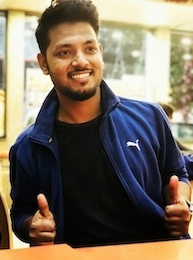
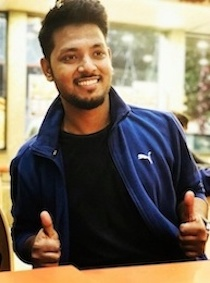
Added images of new members; Publications

diff --git a/index.html b/index.html
@@ -105,8 +105,9 @@ crossorigin="anonymous"></script>
         <div class="card-body">
          <h5 class="card-title border-bottom pb-3">Dr. Tavpritesh Sethi</h5>
          <p class="card-text">Principal Investigator</p>
-         <p>Lorem Ipsum dolor sit amet, consectetur adipiscing elit. Duis condimentum lacus at nisl sollicitudin, a tincidunt lorem mattis. Cras rutrum ligula maximus libero efficitur sagittis. Donec sollicitudin massa eu purus</p>
-         <a href="#" class="float-right">Read more</a>
+         <p>Dr. Tavpritesh Sethi is a physician-scientist and Assistant Professor of Computational Biology at Indraprastha Institute of Information Technology Delhi, India and a fellow of the Wellcome Trust/DBT India Alliance at All India Institute of Medical Sciences, New Delhi, India. Over the past two years, he has been a visiting faculty member at Stanford University, School of Medicine from February 2017 to January 2019. He received his M.B.B.S from Government Medical College, Amritsar and PhD from CSIR-Institute of Genomics and Integrative Biology, New Delhi, India. </p>
+         <p>Dr. Sethi specializes in improving outcomes in neonatal, child and maternal health by bridging medicine and artificial intelligence. His research is focused on development and deployment of machine-learning based solutions to enable decisions and policy in pressing healthcare questions such as antimicrobial resistance, sepsis and health inequalities in intensive care and public health settings. He has authored over 20 research articles and has been a recipient of MIT-TR35 India Innovators under 35, Wellcome Trust/DBT India Alliance Early Career Award. He is an editorial board member of PLOS One, Systems Medicine and Journal of Genetics. Dr. Sethi is a member of the European Association of Systems Medicine and leads the Australasia region for International Association of Systems and Networks Medicine (IASyM).</p>
+         <a href="https://www.iiitd.ac.in/tavpritesh" class="float-right">Read more</a>
        </div>
      </div>
    </div>
@@ -164,7 +165,7 @@ crossorigin="anonymous"></script>
       <div class="card-body">
        <h5 class="card-title border-bottom pb-3">Raghav Awasthi </h5>
        <!-- <h5 class="card-title border-bottom pb-3">PhD Scholar, IIIT Delhi</h5> -->
-       <p class="card-text">PhD Scholar, IIIT Delhi</p>
+       <p class="card-text">PhD Student, IIIT Delhi</p>
        <!-- <a href="#" class="float-right">Read more</a> -->
      </div>
    </center>
@@ -173,10 +174,10 @@ crossorigin="anonymous"></script>
 <div class="col-md-4">
   <div class="card">
     <center>
-      <img class = "card-img-top" src = "./img/Samarth.jpg">
+      <img class = "card-img-top" src = "./img/Aditya.jpg" height="250vw" weight="200vw">
       <div class="card-body">
-       <h5 class="card-title border-bottom pb-3">Samarth Chugh </h5>
-       <p class="card-text">Undergrad Researcher, NSUT</p>
+       <h5 class="card-title border-bottom pb-3">Aditya Nagori</h5>
+       <p class="card-text">PhD Student, CSIR-IGIB</p>
        <!-- <a href="#" class="float-right">Read more</a> -->
      </div>
    </center>
@@ -185,7 +186,33 @@ crossorigin="anonymous"></script>
 <div class="col-md-4">
   <div class="card">
     <center>
-      <img class = "card-img-top" src = "./img/Rahul.jpeg">
+      <img class = "card-img-top" src = "./img/Pradeep.jpg" height="250vw" weight="200vw">
+      <div class="card-body">
+       <h5 class="card-title border-bottom pb-3">Pradeep Singh</h5>
+       <p class="card-text">SRF, AIIMS Delhi</p>
+       <!-- <a href="#" class="float-right">Read more</a> -->
+     </div>
+   </center>
+ </div>
+</div>
+</div>
+<div class="row">
+  <div class="col-md-4">
+    <div class="card">
+      <center>
+        <img class = "card-img-top" src = "./img/Samarth.jpg" height="250vw" weight="200vw">
+        <div class="card-body">
+         <h5 class="card-title border-bottom pb-3">Samarth Chugh </h5>
+         <p class="card-text">Undergrad Researcher, NSUT</p>
+         <!-- <a href="#" class="float-right">Read more</a> -->
+       </div>
+     </center>
+   </div>
+ </div>
+ <div class="col-md-4">
+  <div class="card">
+    <center>
+      <img class = "card-img-top" src = "./img/Rahul.jpeg" height="250vw" weight="200vw">
       <div class="card-body">
        <h5 class="card-title border-bottom pb-3">Rahul Paul </h5>
        <p class="card-text">Undergrad Researcher, NSUT</p>
@@ -194,12 +221,10 @@ crossorigin="anonymous"></script>
    </center>
  </div>
 </div>
-</div>
-<div class="row">
 <div class="col-md-4">
   <div class="card">
     <center>
-      <img class = "card-img-top" src = "./img/Anushtha.png">
+      <img class = "card-img-top" src = "./img/Anushtha.png" height="250vw" weight="200vw">
       <div class="card-body">
        <h5 class="card-title border-bottom pb-3">Anushtha Kalia</h5>
        <p class="card-text">Undergrad Researcher, University of Delhi</p>
@@ -208,22 +233,24 @@ crossorigin="anonymous"></script>
    </center>
  </div>
 </div>
-<div class="col-md-4">
-  <div class="card">
-    <center>
-      <img class = "card-img-top" src = "./img/Shubham.jpg">
-      <div class="card-body">
-       <h5 class="card-title border-bottom pb-3">Shubham Singh</h5>
-       <p class="card-text">Undergrad Researcher, NSUT</p>
-       <!-- <a href="#" class="float-right">Read more</a> -->
-     </div>
-   </center>
- </div>
 </div>
-<div class="col-md-4">
+<div class="row">
+  <div class="col-md-4">
+    <div class="card">
+      <center>
+        <img class = "card-img-top" src = "./img/Shubham.jpg" height="250vw" weight="200vw">
+        <div class="card-body">
+         <h5 class="card-title border-bottom pb-3">Shubham Singh</h5>
+         <p class="card-text">Undergrad Researcher, NSUT</p>
+         <!-- <a href="#" class="float-right">Read more</a> -->
+       </div>
+     </center>
+   </div>
+ </div>
+ <div class="col-md-4">
   <div class="card">
     <center>
-      <img class = "card-img-top" src = "./img/Prakriti.jpg">
+      <img class = "card-img-top" src = "./img/Prakriti.jpg" height="250vw" weight="200vw">
       <div class="card-body">
        <h5 class="card-title border-bottom pb-3">Prakriti Ailavadi</h5>
        <p class="card-text">Undergrad Researcher, NSUT</p>
@@ -232,12 +259,10 @@ crossorigin="anonymous"></script>
    </center>
  </div>
 </div>
-</div>
-<div class="row">
 <div class="col-md-4">
   <div class="card">
     <center>
-      <img class = "card-img-top" src = "./img/baani.png">
+      <img class = "card-img-top" src = "./img/baani.png" height="250vw" weight="200vw">
       <div class="card-body">
        <h5 class="card-title border-bottom pb-3">Baani Leen Kaur</h5>
        <p class="card-text">Undergrad Researcher, IIIT Delhi</p>
@@ -248,6 +273,56 @@ crossorigin="anonymous"></script>
 </div>
 </div>
 </div>
+<div class="row">
+  <div class="col-md-4">
+    <div class="card">
+      <center>
+        <img class = "card-img-top" src = "./img/Anubhav.jpg" height="250vw" weight="200vw">
+        <div class="card-body">
+         <h5 class="card-title border-bottom pb-3">Anubhav Jaiswal</h5>
+         <p class="card-text">Undergrad Researcher, IIIT Delhi</p>
+         <!-- <a href="#" class="float-right">Read more</a> -->
+       </div>
+     </center>
+   </div>
+ </div>
+ <div class="col-md-4">
+  <div class="card">
+    <center>
+      <img class = "card-img-top" src = "./img/Anubhav.jpg" height="250vw" weight="200vw">
+      <div class="card-body">
+       <h5 class="card-title border-bottom pb-3">Arshdeep Singh</h5>
+       <p class="card-text">Undergrad Researcher, IIIT Delhi</p>
+       <!-- <a href="#" class="float-right">Read more</a> -->
+     </div>
+   </center>
+ </div>
+</div>
+<div class="col-md-4">
+  <div class="card">
+    <center>
+      <img class = "card-img-top" src = "./img/Anubhav.jpg" height="250vw" weight="200vw">
+      <div class="card-body">
+       <h5 class="card-title border-bottom pb-3">Harsh Bandhey</h5>
+       <p class="card-text">Undergrad Researcher, IIIT Delhi</p>
+       <!-- <a href="#" class="float-right">Read more</a> -->
+     </div>
+   </center>
+ </div>
+</div>
+<div class="col-md-4">
+  <div class="card">
+    <center>
+      <img class = "card-img-top" src = "./img/Anubhav.jpg" height="250vw" weight="200vw">
+      <div class="card-body">
+       <h5 class="card-title border-bottom pb-3">Kanav Bhagat</h5>
+       <p class="card-text">Undergrad Researcher, IIIT Delhi</p>
+       <!-- <a href="#" class="float-right">Read more</a> -->
+     </div>
+   </center>
+ </div>
+</div>
+</div>
 
 <div class = "container-fluid">
   <h1 align = "center" id="publications"> Our Publications</h1>
@@ -255,19 +330,141 @@ crossorigin="anonymous"></script>
     <div class="card-body">
       <h1> 2019</h1>
       <hr>
-      <p>A Nagori, LS Dhingra, A Bhatnagar, R Lodha, T Sethi. <a href="https://www.nature.com/articles/s41598-018-36586-8"><i>Predicting Hemodynamic Shock from Thermal Images using Machine Learning</i></a>. Scientific Journal, Nature Publishing Group 2019</p>
+      <p>Aditya Nagori, Lovedeep Singh Dhingra, Ambika Bhatnagar, Rakesh Lodha, Tavpritesh Sethi*. <a href="https://www.doi.org/10.1038/s41598-018-36586-8"><i>Predicting Hemodynamic Shock from Thermal Images using Machine Learning.</i></a> Sci Rep. 2019 Jan 14;9(1):91.doi: 10.1038/s41598-018-36586-8.</p>
     </div>
     <br><br>
     <div class="card">
       <div class="card-body">
         <h1> 2018</h1>
         <hr>
-        <p>Harpreet Singh, Sapna Bhargava, Sailesh Ganeshan, Ravneet Kaur, Tavpritesh Sethi, Mukesh Sharma, Madhusudan Chauhan, Neerja Chauhan, Rishipal Chauhan, Partap Chauhan, Samir K Brahmachari <a href="https://journals.lww.com/progprevmed/Fulltext/2018/10000/Big_Data_Analysis_of_Traditional_Knowledge_based.1.aspx"><i>Big Data Analysis of Traditional Knowledge-based Ayurveda Medicine</i></a>. Progress in Preventive Medicine Journal 2018</p>
-        <p>Tavpritesh Sethi, Anant Mittal, Shubham Maheshwari, Samarth Chugh. <a href = "https://arxiv.org/pdf/1809.09215.pdf">Learning to Address Health Inequality in the United States with a Bayesian Decision Network</a>. </p>
-      </div>
+        <p>Tavpritesh Sethi, Anant Mittal, Shubham Maheshwari, Samarth Chugh. <a href="https://arxiv.org/abs/1809.09215"><i>Learning to Address Health Inequality in the United States with a Bayesian Decision Network.</i></a> arXiv Prepr arXiv180909215. 2018. Accepted for publication and presentation in the <i>Thirty-third AAAI conference in Artificial Intelligence, Honolulu, USA</i>
+      (Submissions 7700, accepted 1170, 15% acceptance rate).</p>
+      <hr>
+      <p>Tavpritesh Sethi, Shubham Maheshwari, Aditya Nagori, Rakesh Lodha. <a href="https://wellcomeopenresearch.org/articles/3-73"><i>Stewarding antibiotic stewardship in intensive care units with Bayesian artificial intelligence.</i></a> Wellcome Open Res. 2018 Jun 18. .</p>
+      <p>
+        Sindhu Sivanandan, Tavpritesh Sethi, Rakesh Lodha, Anu Thukral, Jeeva M Sankar, Ramesh Agarwal, et al. <a href="https://link.springer.com/article/10.1007/s13312-018-1391-4"><i>Target Oxygen Saturation Among Preterm Neonates on Supplemental Oxygen Therapy: A Quality Improvement Study.</i></a> Indian Pediatr. 2018;55(9):793–6.
+      </p>
+      <p>
+        Kriti Kaushik, Ambily Sivadas, Shamsudheen K Vellarikkal, Ankit Verma, Rijith Jayarajan, Satyaprakash Pandey S, Tavpritesh Sethi, Souvik Maiti, Vinod Scaria, Sridhar Sivasubbu. <a href="https://www.researchgate.net/publication/323205756_RNA_secondary_structure_profiling_in_zebrafish_reveals_unique_regulatory_features"><i>RNA secondary structure profiling in zebrafish reveals unique regulatory features.</i></a> BMC Genomics. 2018;19(1):147.
+      </p>
     </div>
   </div>
-  <!-- Team page -->
+  <div class="card">
+    <div class="card-body">
+      <h1> 2017</h1>
+      <hr>
+      <p>
+        Kriti Sikri, Priyanka Duggal, Chanchal Kumar, Sakshi Dhingra Batra, Atul Vashist, Ashima Bhaskar, Kritika Tripathi, Tavpritesh Sethi, Amit Singh, Jaya Sivaswami Tyagi: <a href="https://doi.org/10.1016/j.redox.2017.12.020"><i>Multifaceted remodeling by vitamin C boosts sensitivity of Mycobacterium tuberculosis subpopulations to combination treatment by anti-tubercular drugs.</i></a> DOI:10.1016/j.redox.2017.12.020
+      </p>
+      <p>
+        Anirban Sinha, Koundinya Desiraju, Kunal Aggarwal, Rintu Kutum, Siddhartha Roy, Rakesh Lodha, S. K. Kabra, Balaram Ghosh, Tavpritesh Sethi*, Anurag Agrawal*: <a href="https://doi.org/10.1186/s12967-017-1365-7"><i>Exhaled breath condensate metabolome clusters for endotype discovery in asthma. Journal of Translational Medicine</i></a> 12/2017; 15(1)., DOI:10.1186/s12967-017-1365-7 *Co-corresponding author
+      </p>
+      <p>
+        Pradeep Tiwari#, Rintu Kutum#, Tavpritesh Sethi#, Ankita Shrivastava, Bhushan Girase, Shilpi Aggarwal, Rutuja Patil, Dhiraj Agarwal, Pramod Gautam, Anurag Agrawal, Debasis Dash, Saurabh Ghosh, Sanjay Juvekar, Mitali Mukerji, Bhavana Prasher: <i><a href="https://doi.org/10.1371/journal.pone.0185380">Recapitulation of Ayurveda constitution types by machine learning of phenotypic traits.</a></i> PLoS ONE 10/2017; 12(10):e0185380., DOI:10.1371/journal.pone.0185380 #Joint first author
+      </p>
+      <p>
+        Saransh Jain, Saurabh Kedia, Tavpritesh Sethi, Sawan Bopanna, Dawesh Prakash Yadav, Sandeep Goyal, Rajesh Padhan, Pratap Mouli Venigalla, Peush Sahni, Nihar Ranjan Dash, Sujoy Pal, Govind Makharia, Simon P L Travis, Vineet Ahuja: <a href="https://doi.org/10.1111/jgh.13921"><i>Predictors of long-term outcomes in patients with acute severe colitis: A Northern Indian cohort study: Acute severe colitis: Predictors of long-term outcome.</i></a> Journal of Gastroenterology and Hepatology 08/2017;, DOI:10.1111/jgh.13921
+      </p>
+      <p>
+        Tavpritesh Sethi, Nigam H. Shah: <a href="https://doi.org/10.1007/s40264-017- 0585-3"><i>Pharmacovigilance Using Textual Data: The Need to Go Deeper and Wider into the Con(text).</i></a> Drug Safety 08/2017; 40(6)., DOI:10.1007/s40264-017- 0585-3
+      </p>
+      <p>
+        Saransh Jain, Saurabh Kedia, Tavpritesh Sethi, Sawan Bopanna, Dawesh Yadav, Sandeep Goyal, Pratap Mouli Venigalla, Peush Sahni, Nihar R. Dash, Sujoy Pal, Govind K. Makharia, Simon P. Travis, Vineet Ahuja: <a href="https://doi.org/10.1016/S0016-5085(17)31492-0"><i>Predictors of Long-Term Outcomes in Patients with Acute Severe Ulcerative Colitis: A Northern Indian Cohort Study.</i></a> Gastroenterology 04/2017; 152(5):S372., DOI:10.1016/S0016-5085(17)31492-0
+      </p>
+      <p>
+         Ambika Bhatnagar, Aditya Nagori, Richard Fletcher, Rakesh Lodha, Tavpritesh Sethi*: <a href="https://doi.org/10.1145/3047273.3047376"><i>Leveraging Thermal Patterns in Children for Telemedicine: Role of Affordable Imagers, Smartphones and Data-analytics.</i></a> Proceedings of the Special Collection on EGovernment Innovations in India - ICEGOV 17.; 03/2017, DOI:10.1145/3047273.3047376 *Corresponding author
+      </p>
+      <p>
+        Tavpritesh Sethi*#, Aditya Nagori, Ambika Bhatnagar, Priyanka Gupta, Richard Fletcher, Rakesh Lodha: <a href="https://doi.org/10.1145/3055219.3055234"><i>Validating the Tele-diagnostic Potential of Affordable Thermography in a Big- data Data-enabled ICU.</i></a> Proceedings of the Special Collection on EGovernment Innovations in India - ICEGOV 17.; 03/2017, DOI:10.1145/3055219.3055234 First and Corresponding author
+      </p>
+    </div>
+  </div>
+  <div class="card">
+    <div class="card-body">
+      <h1> 2016</h1>
+      <hr>
+      <p>
+        Mohit Singla, Meenakshi Kar, Tavpritesh Sethi, Sushil K. Kabra, Rakesh Lodha, Anmol Chandele, Guruprasad R. Medigeshi: <a href="https://doi.org/10.1371/journal.pntd.0004497"><i>Immune Response to Dengue Virus Infection in Pediatric Patients in New Delhi, India—Association of Viremia, Inflammatory Mediators and Monocytes with Disease Severity.</i></a> PLoS Neglected Tropical Diseases 03/2016; 10(3):e0004497., DOI:10.1371/journal.pntd.0004497
+      </p>
+      <p>
+        Abhimanyu, Mridula Bose, Mandira Varma-Basil, Ashima Jain, Tavpritesh Sethi, Pradeep Kumar Tiwari, Anurag Agrawal, Jayant Nagesh Banavaliker, Kumar Tapas Bhowmick: <a href="https://doi.org/10.1371/journal.pone.0145576"><i>Establishment of Elevated Serum Levels of IL-10, IL-8 and TNF-β as Potential Peripheral Blood Biomarkers in Tubercular Lymphadenitis: A Prospective Observational Cohort Study.</i></a> PLoS ONE 01/2016; 11(1):e0145576., DOI:10.1371/journal.pone.0145576
+      </p>
+    </div>
+  </div>
+    <div class="card">
+    <div class="card-body">
+      <h1> 2015</h1>
+      <hr>
+      <p>
+        Sundeep Salvi, Komalkirti Apte, Sapna Madas, MBBS Monica Barne, Sushmeeta Chhowala, Tavpritesh Sethi, Kunal Aggarwal, Anurag Agrawal, Jaideep Gogtay: <a href="https://doi.org/10.1016/S2214-109X(15)00152-7"><i>Articles Symptoms and medical conditions in 204 912 patients visiting primary health-care practitioners in India: a 1-day point prevalence study (the POSEIDON study).</i></a> The Lancet Global Health 12/2015; 3(12):e776–e784., DOI:10.1016/S2214-109X(15)00152-7
+      </p>
+    </div>
+  </div>
+  <div class="card">
+    <div class="card-body">
+      <h1> 2013</h1>
+      <hr>
+      <p>
+        Dinesh Raj, Rakesh Lodha, Aparna Mukherjee, Tavpritesh Sethi, Anurag Agrawal, Sushil Kumar Kabra: <a href="https://doi.org/10.1007/s13312-014-0351-x"><i>Fractional Exhaled Nitric Oxide (FENO) in Children with Acute Exacerbation of Asthma.</i></a> Indian pediatrics 09/2013; 51(2)., DOI:10.1007/s13312-014-0351-x
+      </p>
+      <p>
+        Anirban Sinha, Amit Kumar Yadav, Samarpana Chakraborty, S. K. Kabra, R. Lodha, Manish Kumar, Ankur Kulshreshtra, Tavpritesh Sethi, Rajesh Pandey, Gaurav Malik, Saurabh Laddha, Arijit Mukhopadhyay, Debasis Dash, Balaram Ghosh, Anurag Agrawal: <a href="https://doi.org/10.1016/j.jaci.2013.03.035"><i>Exosome Enclosed MicroRNAs In Exhaled Breath Hold Potential For Biomarker Discovery in Pulmonary Diseases.</i></a> Journal of Allergy and Clinical Immunology 07/2013;, DOI:10.1016/j.jaci.2013.03.035
+      </p>
+      <p>
+        Tanveer Ahmad#, Kunal Aggarwal#, Bijay Ranjan Pattnaik#, Shravani Mukherjee#, Tavpritesh Sethi et al: <a href="https://doi.org/10.1038/cddis.2012.213"><i>Computational classification of mitochondrial shapes reflects stress and redox state.</i></a> Cell Death & Disease 01/2013; 4(1):e461., DOI:10.1038/cddis.2012.213 #Joint first authors
+      </p>
+    </div>
+  </div>
+  <div class="card">
+    <div class="card-body">
+      <h1> 2012</h1>
+      <hr>
+      <p>
+        Samir K Brahmachari,[...], Tavpritesh Sethi, Amit Kumar Mandal, Arijit Mukhopadhyay, Rajni Rani: <a href="https://www.ncbi.nlm.nih.gov/pubmed/22723329"><i>Presence of strong association of the major histocompatibility complex (MHC) class I allele HLA-A*26:01 with idiopathic hypoparathyroidism.</i></a> The Journal of Clinical Endocrinology and Metabolism 06/2012; 97(9):E1820-4.
+      </p>
+      <p>
+        Anirban Sinha, Veda Krishnan, Tavpritesh Sethi, Siddhanta Roy, Balaram Ghosh, Rakesh Lodha, Sushil Kabra, Anurag Agrawal: <a href="https://doi.org/10.1183/09031936.00047711"><i>Metabolomic signatures in nuclear magnetic resonance spectra of exhaled breath condensate identify asthma.</i></a> European Respiratory Journal 02/2012; 39(2):500-2., DOI:10.1183/09031936.00047711
+      </p>
+    </div>
+  </div>
+    <div class="card">
+    <div class="card-body">
+      <h1> 2011</h1>
+      <hr>
+      <p>
+        Tav Pritesh Sethi, Bhavana Prasher, Mitali Mukerji: <a href="https://doi.org/10.1021/cb2003016"><i>Ayurgenomics: A New Way of Threading Molecular Variability for Stratified Medicine.</i></a> ACS Chemical Biology 09/2011; 6(9):875-80., DOI:10.1021/cb2003016
+      </p>
+    </div>
+  </div>
+      <div class="card">
+    <div class="card-body">
+      <h1> 2010</h1>
+      <hr>
+      <p>
+        Tavpritesh Sethi, Anurag Agrawal: Structure and function of the tuberculous lung: <a href="https://doi.org/10.1016/j.tube.2010.08.008"><i>Considerations for inhaled therapies. Tuberculosis (Edinburgh, Scotland)</i></a> 10/2010; 91(1):67- 70., DOI:10.1016/j.tube.2010.08.008
+      </p>
+      <p>
+        Shilpi Aggarwal,[...], T. P. Sethi, A K Mandal, A Mukhopadhyay: <a href="https://doi.org/10.1073/pnas.1006108107"><i>EGLN1 involvement in high- altitude adaptation revealed through genetic analysis of extreme constitution types defined in Ayurveda.</i></a> Proc Natl Acad Sci U S A. 2010 Nov 2;107(44):18961-6. doi: 10.1073/pnas.1006108107.
+      </p>
+    </div>
+  </div>
+  <div class="card">
+    <div class="card-body">
+      <h1> 2008</h1>
+      <hr>
+      <p>
+        Bhavana Prasher, Sapna Negi, Shilpi Aggarwal, Amit K Mandal, Tav P Sethi, Shailaja R Deshmukh, Sudha G Purohit, Shantanu Sengupta, Sangeeta Khanna, Farhan Mohammad,Gaurav Garg, Samir K Brahmachari, Mitali Mukerji: <a href="https://doi.org/10.1186/1479-5876-6-48"><i>Whole genome expression and biochemical correlates of extreme constitutional types defined in Ayurveda.</i></a> Journal of Translational Medicine 10/2008; 6(1):48., DOI:10.1186/1479-5876-6-48
+      </p>
+      <p>
+        Brahmachari SK, [...], Sethi TP, Mandal AK, Mukhopadhyay A, Ashok Kumar: <a href="https://www.ncbi.nlm.nih.gov/pubmed/18560169"><i>Genetic landscape of the people of India: a canvas for disease gene exploration.Indian Genome Variation Consortium.</i></a> J Genet. 2008 Apr;87(1):3-20. Journal of Genetics 04/2008; 87(1).
+      </p>
+      <p>
+        Brahmachari SK, [...], T.P. Sethi, S.R. Deshmukh, S.G. Purohit, S. Sengupta, S. Khanna, F. Mohammad, G. Garg, S.K. Brahmachari, M. Mukerji: <a href="https://doi.org/10.1186/1479-5876-6-48"><i>Whole genome expression and biochemical correlates of extreme constitutional types defined in Ayurveda.</i></a> Journal of Translational Medicine. 2008 Sep 9;6:48. doi: 10.1186/1479-5876-6-48.
+      </p>
+    </div>
+  </div>
+</div>
+<!-- Team page -->
 <!-- <div class="container">
   <div class="row">
     <div class="col-lg-3 col-sm-6">
